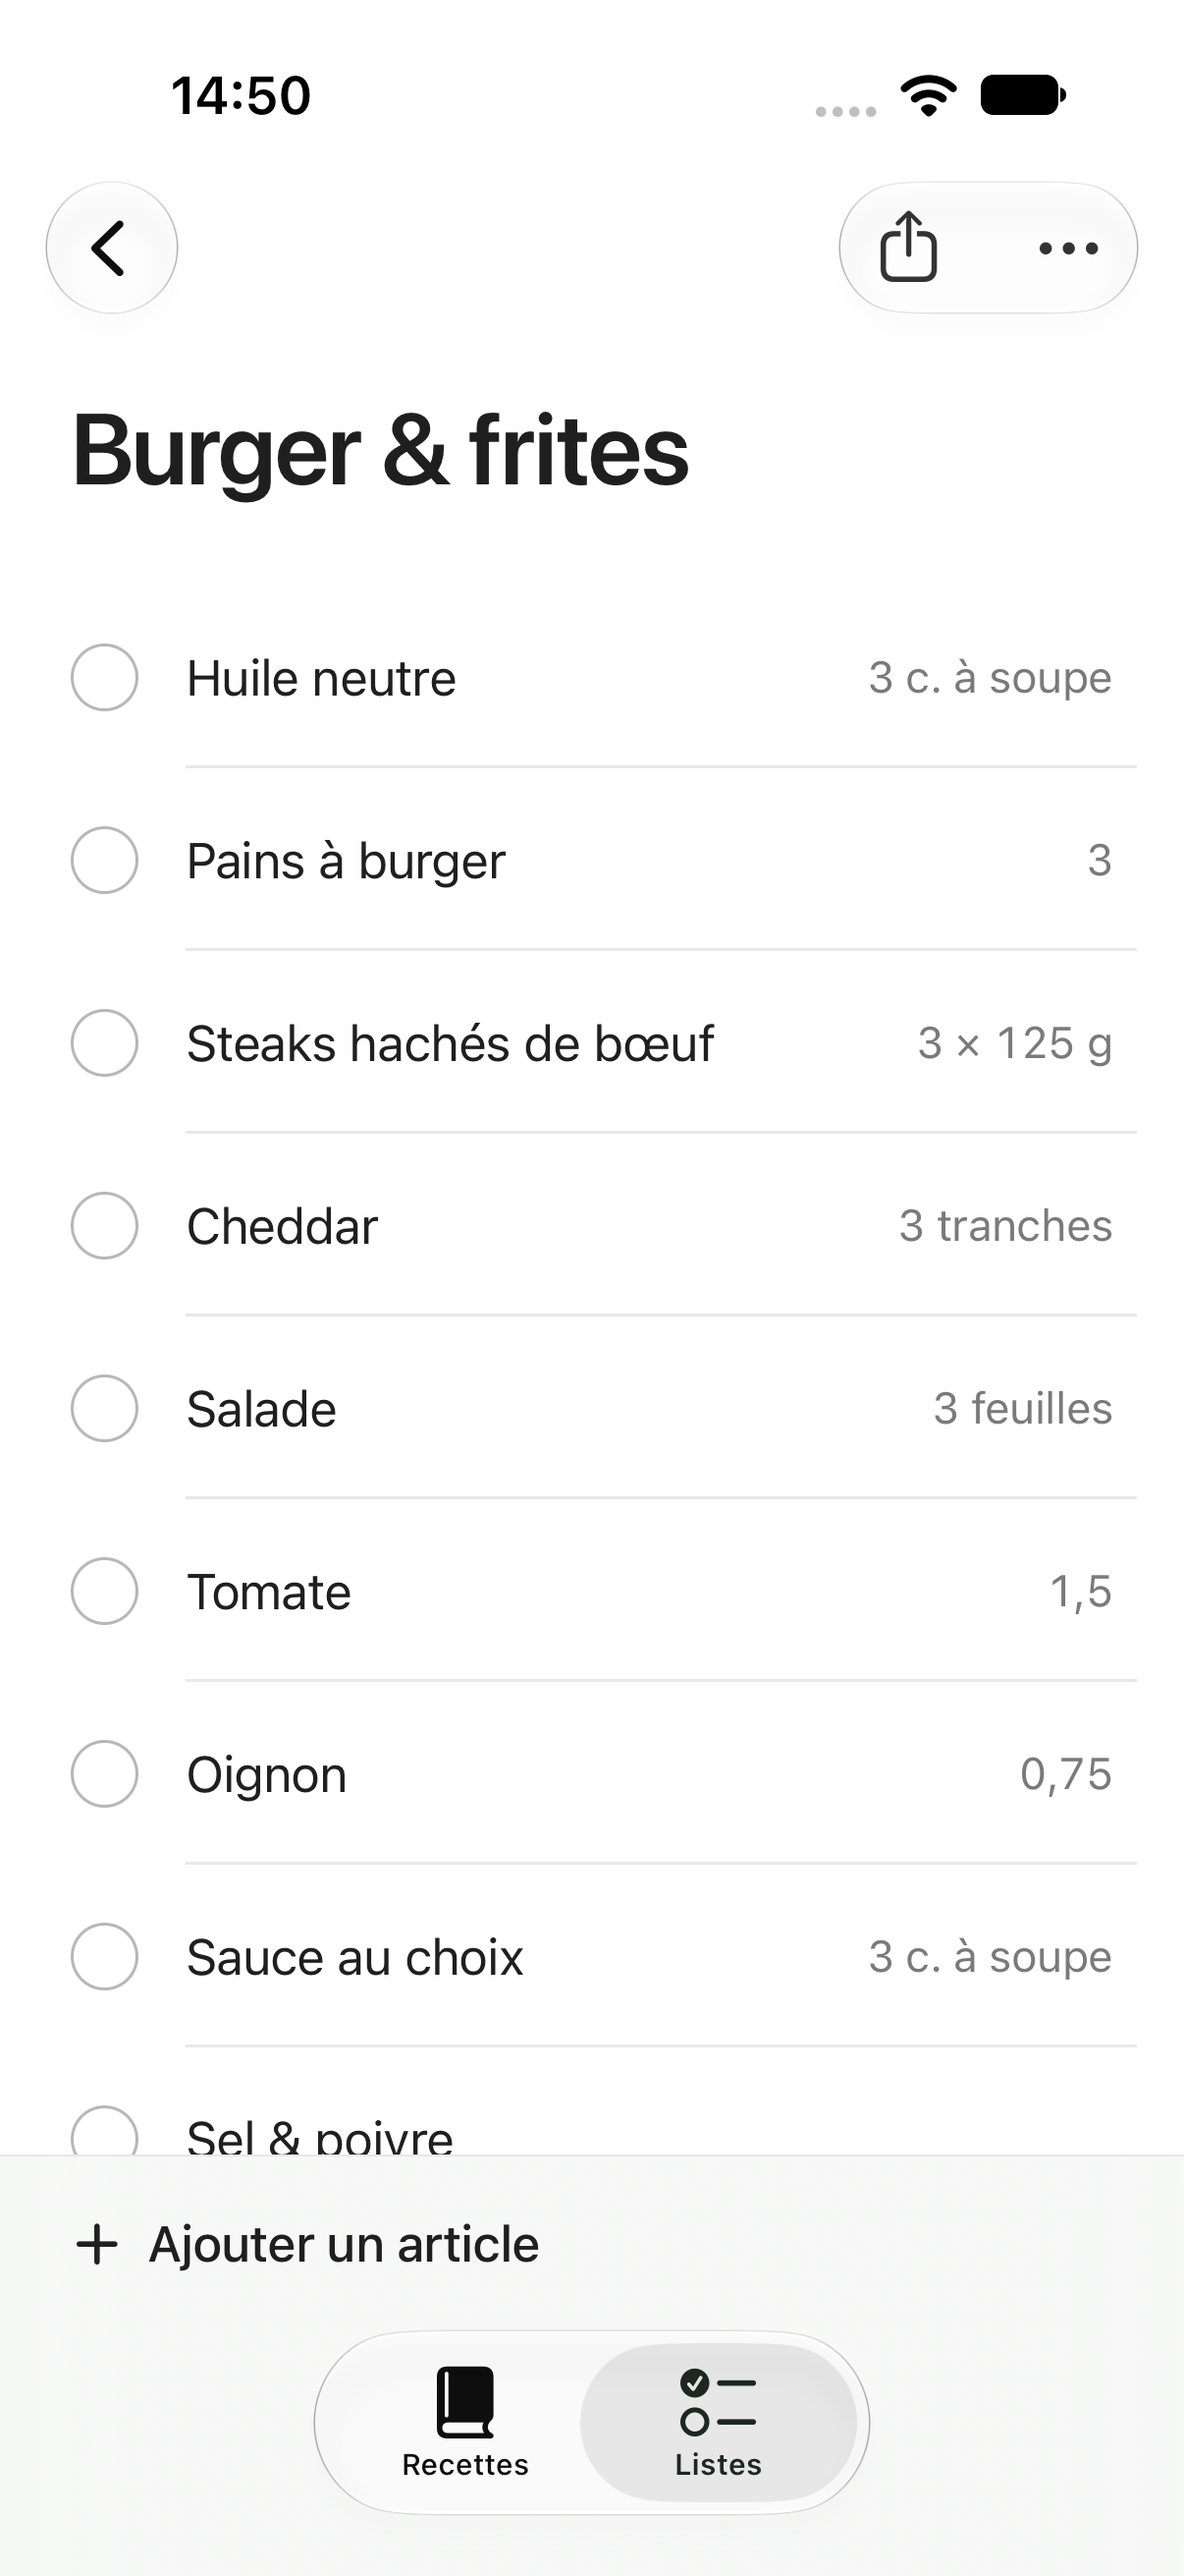
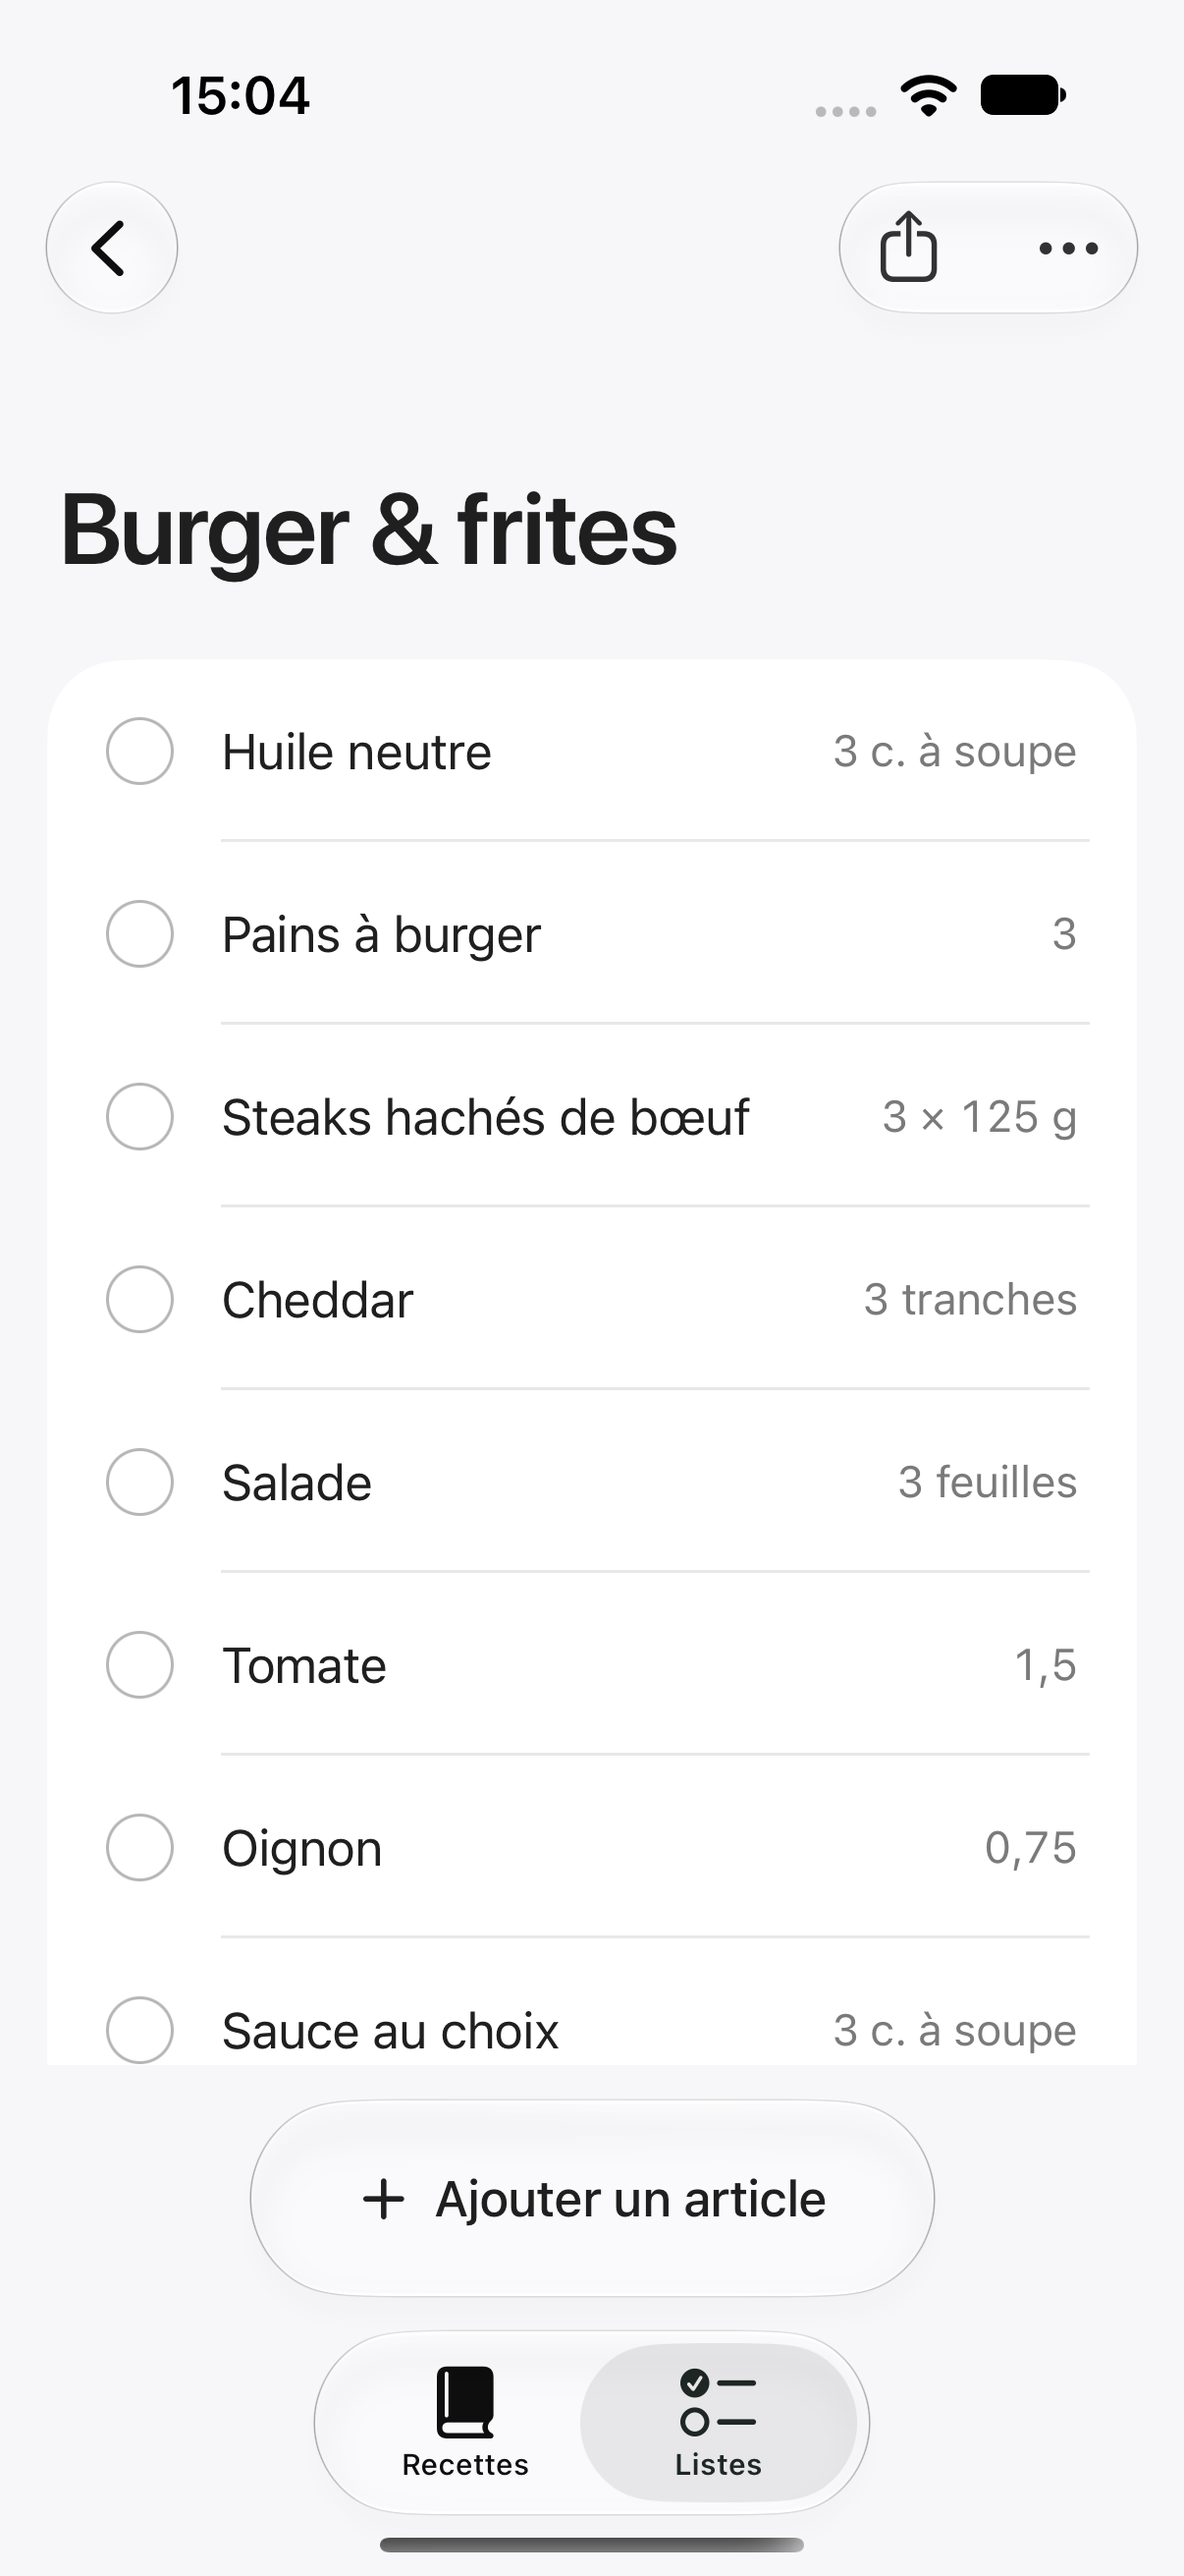
Restore minimal rounded shopping list surfaces

diff --git a/Petit Chef/Shopping/ShoppingListsView.swift b/Petit Chef/Shopping/ShoppingListsView.swift
@@ -3,7 +3,8 @@ import SwiftUI
 private enum ShoppingStyle {
     static let ink = Color(red: 0.12, green: 0.12, blue: 0.12)
     static let muted = Color(red: 0.48, green: 0.48, blue: 0.48)
-    static let separator = Color.black.opacity(0.07)
+    static let separator = Color.black.opacity(0.06)
+    static let canvas = Color(red: 0.97, green: 0.97, blue: 0.975)
 }
 
 struct ShoppingListsView: View {
@@ -15,20 +16,16 @@ struct ShoppingListsView: View {
 
     var body: some View {
         NavigationStack(path: $path) {
-            List {
-                Section {
+            ScrollView {
+                VStack(alignment: .leading, spacing: 28) {
                     Text("Listes")
                         .font(.system(.largeTitle, design: .default, weight: .bold))
                         .tracking(-0.8)
-                        .padding(.top, 16).padding(.bottom, 22)
+                        .padding(.top, 16)
                         .accessibilityAddTraits(.isHeader)
                         .accessibilityIdentifier("shopping.home.title")
-                }
-                .listRowInsets(EdgeInsets(top: 0, leading: 24, bottom: 0, trailing: 24))
-                .listRowSeparator(.hidden)
 
-                if shopping.lists.isEmpty {
-                    Section {
+                    if shopping.lists.isEmpty {
                         VStack(spacing: 18) {
                             Image(systemName: "checklist")
                                 .font(.system(size: 30, weight: .regular))
@@ -39,31 +36,42 @@ struct ShoppingListsView: View {
                                 .font(.system(.subheadline, design: .default))
                                 .buttonStyle(.glass).controlSize(.large)
                         }
-                        .padding(.vertical, 70)
+                        .padding(.vertical, 64)
                         .frame(maxWidth: .infinity)
-                    }.listRowSeparator(.hidden)
-                } else {
-                    Section {
-                        ForEach(Array(shopping.lists.enumerated()), id: \.element.id) { index, list in
-                            NavigationLink(value: list.id) {
-                                Text(list.title)
-                                    .font(.system(.body, design: .default, weight: .medium))
-                                    .padding(.vertical, 18)
-                                    .fixedSize(horizontal: false, vertical: true)
+                        .background(.white, in: .rect(cornerRadius: 28))
+                    } else {
+                        LazyVStack(spacing: 12) {
+                            ForEach(Array(shopping.lists.enumerated()), id: \.element.id) { index, list in
+                                NavigationLink(value: list.id) {
+                                    HStack(spacing: 20) {
+                                        Text(list.title)
+                                            .font(.system(.body, design: .default, weight: .medium))
+                                            .fixedSize(horizontal: false, vertical: true)
+                                        Spacer(minLength: 0)
+                                        Image(systemName: "chevron.right")
+                                            .font(.system(size: 12, weight: .semibold))
+                                            .foregroundStyle(ShoppingStyle.muted.opacity(0.65))
+                                            .accessibilityHidden(true)
+                                    }
+                                    .padding(.horizontal, 24)
+                                    .padding(.vertical, 26)
+                                    .frame(maxWidth: .infinity, alignment: .leading)
+                                    .background(.white, in: .rect(cornerRadius: 26))
+                                    .contentShape(.rect(cornerRadius: 26))
+                                }
+                                .buttonStyle(ShoppingBubbleButtonStyle())
+                                .modifier(ShoppingEntrance(delay: min(Double(index) * 0.025, 0.1)))
+                                .accessibilityIdentifier("shopping.list.\(list.id)")
+                                .accessibilityValue(!list.items.isEmpty && list.remainingCount == 0 ? "Terminée" : "")
                             }
-                            .modifier(ShoppingEntrance(delay: min(Double(index) * 0.025, 0.1)))
-                            .listRowInsets(EdgeInsets(top: 0, leading: 24, bottom: 0, trailing: 24))
-                            .accessibilityIdentifier("shopping.list.\(list.id)")
-                            .accessibilityValue(!list.items.isEmpty && list.remainingCount == 0 ? "Terminée" : "")
                         }
                     }
                 }
+                .padding(.horizontal, 20)
+                .padding(.bottom, 24)
+                .frame(maxWidth: .infinity, alignment: .leading)
             }
-            .listStyle(.plain)
-            .scrollContentBackground(.hidden)
-            .listRowBackground(Color.white)
-            .listRowSeparatorTint(ShoppingStyle.separator)
-            .background(.white)
+            .background(ShoppingStyle.canvas)
             .fontDesign(.default)
             .foregroundStyle(ShoppingStyle.ink)
             .tint(ShoppingStyle.ink)
@@ -81,6 +89,17 @@ struct ShoppingListsView: View {
                 Button("Annuler", role: .cancel) {}
             }
         }
+    }
+}
+
+private struct ShoppingBubbleButtonStyle: ButtonStyle {
+    @Environment(\.accessibilityReduceMotion) private var reduceMotion
+
+    func makeBody(configuration: Configuration) -> some View {
+        configuration.label
+            .scaleEffect(configuration.isPressed && !reduceMotion ? 0.98 : 1)
+            .opacity(configuration.isPressed ? 0.75 : 1)
+            .animation(reduceMotion ? nil : .spring(response: 0.3, dampingFraction: 0.8), value: configuration.isPressed)
     }
 }
 
@@ -158,12 +177,13 @@ struct ShoppingListDetailView: View {
                             .font(.system(.largeTitle, design: .default, weight: .semibold))
                             .tracking(-0.7)
                             .fixedSize(horizontal: false, vertical: true)
-                            .padding(.top, 16).padding(.bottom, 26)
+                            .padding(.top, 8).padding(.bottom, 4)
                             .modifier(ShoppingEntrance())
                             .accessibilityIdentifier("shopping.detail.title")
                             .accessibilityAddTraits(.isHeader)
                     }
-                    .listRowInsets(EdgeInsets(top: 0, leading: 24, bottom: 0, trailing: 24))
+                    .listRowInsets(EdgeInsets(top: 0, leading: 4, bottom: 0, trailing: 4))
+                    .listRowBackground(Color.clear)
                     .listRowSeparator(.hidden)
                     if list.items.contains(where: { !isInBasket($0) }) {
                         Section {
@@ -182,7 +202,7 @@ struct ShoppingListDetailView: View {
                                 .font(.system(.subheadline, design: .default, weight: .medium))
                                 .textCase(nil)
                                 .foregroundStyle(ShoppingStyle.muted)
-                                .padding(.top, 20).padding(.bottom, 8)
+                                .padding(.top, 4).padding(.bottom, 6)
                         }
                     }
                     if list.items.isEmpty {
@@ -191,24 +211,30 @@ struct ShoppingListDetailView: View {
                                 .font(.system(.body, design: .default))
                                 .foregroundStyle(ShoppingStyle.muted)
                                 .padding(.vertical, 18)
-                        }.listRowSeparator(.hidden)
+                        }
+                        .listRowBackground(Color.white)
+                        .listRowSeparator(.hidden)
                     }
                 }
-                .listStyle(.plain)
+                .listStyle(.insetGrouped)
+                .listSectionSpacing(20)
                 .listRowSeparatorTint(ShoppingStyle.separator)
                 .scrollContentBackground(.hidden)
-                .background(.white)
+                .background(ShoppingStyle.canvas)
                 .safeAreaInset(edge: .bottom, spacing: 0) {
                     Button { name = ""; amount = ""; adding = true } label: {
                         Label("Ajouter un article", systemImage: "plus")
                             .font(.system(.body, design: .default, weight: .medium))
-                            .frame(maxWidth: .infinity, minHeight: 44, alignment: .leading)
-                            .padding(.horizontal, 24).padding(.vertical, 8)
-                            .contentShape(.rect)
+                            .padding(.horizontal, 16)
+                            .padding(.vertical, 8)
                     }
-                    .buttonStyle(.plain)
-                    .background(.bar)
-                    .overlay(alignment: .top) { ShoppingStyle.separator.frame(height: 0.5) }
+                    .buttonStyle(.glass)
+                    .controlSize(.large)
+                    .buttonBorderShape(.capsule)
+                    .padding(.top, 12)
+                    .padding(.bottom, 12)
+                    .frame(maxWidth: .infinity)
+                    .background(ShoppingStyle.canvas)
                     .accessibilityIdentifier("shopping.item.add")
                 }
                 .toolbar {
@@ -296,7 +322,7 @@ struct ShoppingListDetailView: View {
         .buttonStyle(.plain)
         .disabled(pendingMoves[item.id] != nil)
         .modifier(ShoppingEntrance())
-        .listRowInsets(EdgeInsets(top: 0, leading: 24, bottom: 0, trailing: 24))
+        .listRowInsets(EdgeInsets(top: 0, leading: 20, bottom: 0, trailing: 20))
         .listRowBackground(Color.white)
         .accessibilityValue(item.isChecked ? "Dans le panier" : "À acheter")
         .accessibilityIdentifier("shopping.item.\(item.id)")

diff --git a/docs/shopping-lists.md b/docs/shopping-lists.md
@@ -10,11 +10,11 @@ Le partage est du texte avec les quantités, les recettes d’origine et l’ét
 
 ## Interface et mouvement
 
-L’accueil affiche uniquement le titre « Listes », les noms des listes et l’accès à la création. Aucun compteur, aperçu d’ingrédients, anneau, illustration ni carte décorative.
+L’accueil affiche le titre « Listes » et une bulle blanche arrondie par liste, sur un fond gris très clair. Chaque bulle contient uniquement le nom et un chevron discret. Aucun compteur ni aperçu d’ingrédients. Le bouton de création reste dans la barre supérieure.
 
-Le détail présente le titre et les ingrédients sur un fond blanc : cases circulaires, quantités alignées à droite, séparateurs fins. Les achats cochés rejoignent « Dans le panier ». L’ajout d’article reste accessible en bas ; partage et options utilisent les contrôles natifs. La provenance d’un article n’est affichée que si plusieurs recettes alimentent la liste.
+Le détail regroupe les ingrédients dans des panneaux blancs arrondis : cases circulaires, quantités alignées à droite et séparateurs fins. Les achats cochés rejoignent un panneau « Dans le panier ». L’ajout d’article reste accessible dans une capsule de verre en bas ; partage et options utilisent les contrôles natifs. La provenance d’un article n’est affichée que si plusieurs recettes alimentent la liste.
 
-La navigation utilise la transition native standard. L’apparition est un fondu de 250 ms avec un déplacement de 4 points. Au cochage, les données sont sauvegardées immédiatement ; la coche se dessine, puis la ligne rejoint sa section après 220 ms, avec une transition de 250 ms. Réduire les animations supprime ces effets et le délai de déplacement. Les retours tactiles suivent le réglage de l’app.
+Les bulles se compriment légèrement au toucher (échelle 0,98, ressort de 300 ms). La navigation utilise la transition native standard. L’apparition est un fondu de 250 ms avec un déplacement de 4 points. Au cochage, les données sont sauvegardées immédiatement ; la coche se dessine, puis la ligne rejoint sa section après 220 ms, avec une transition de 250 ms. Réduire les animations supprime les mouvements de pression et d’apparition et le délai de déplacement. Les retours tactiles suivent le réglage de l’app.
 
 ## Vérification
 
